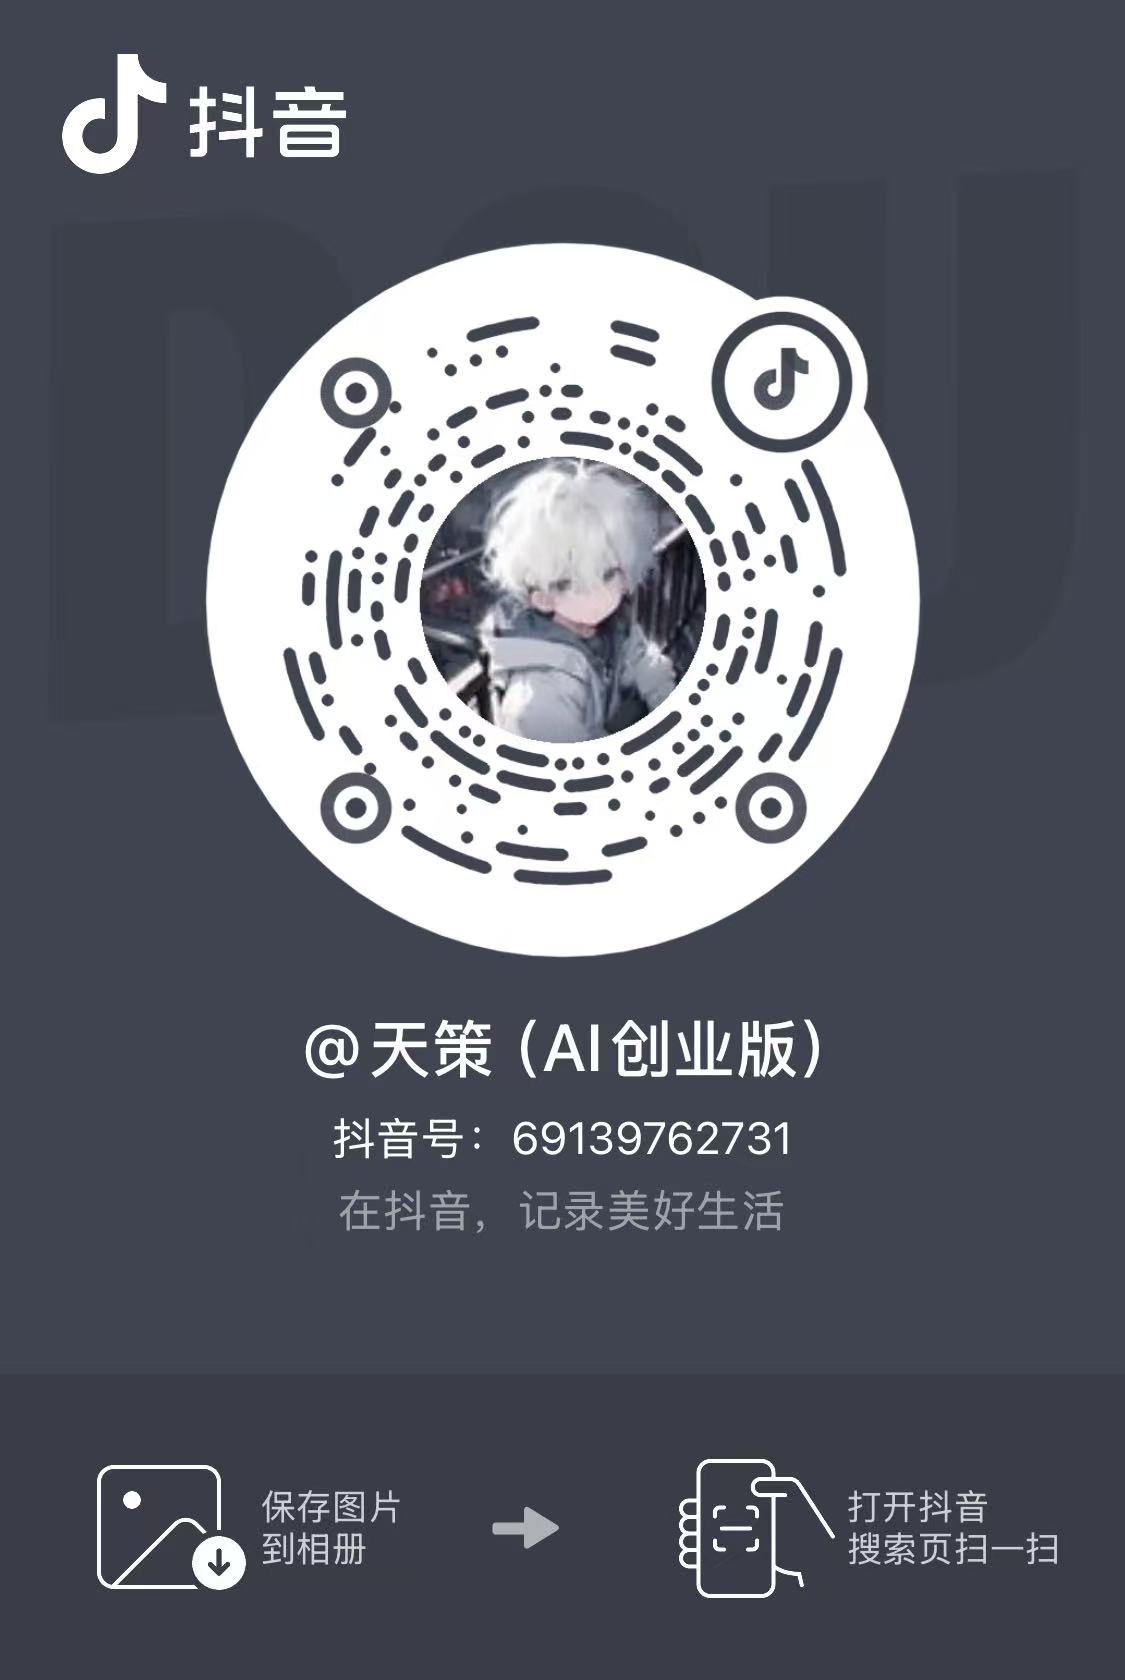
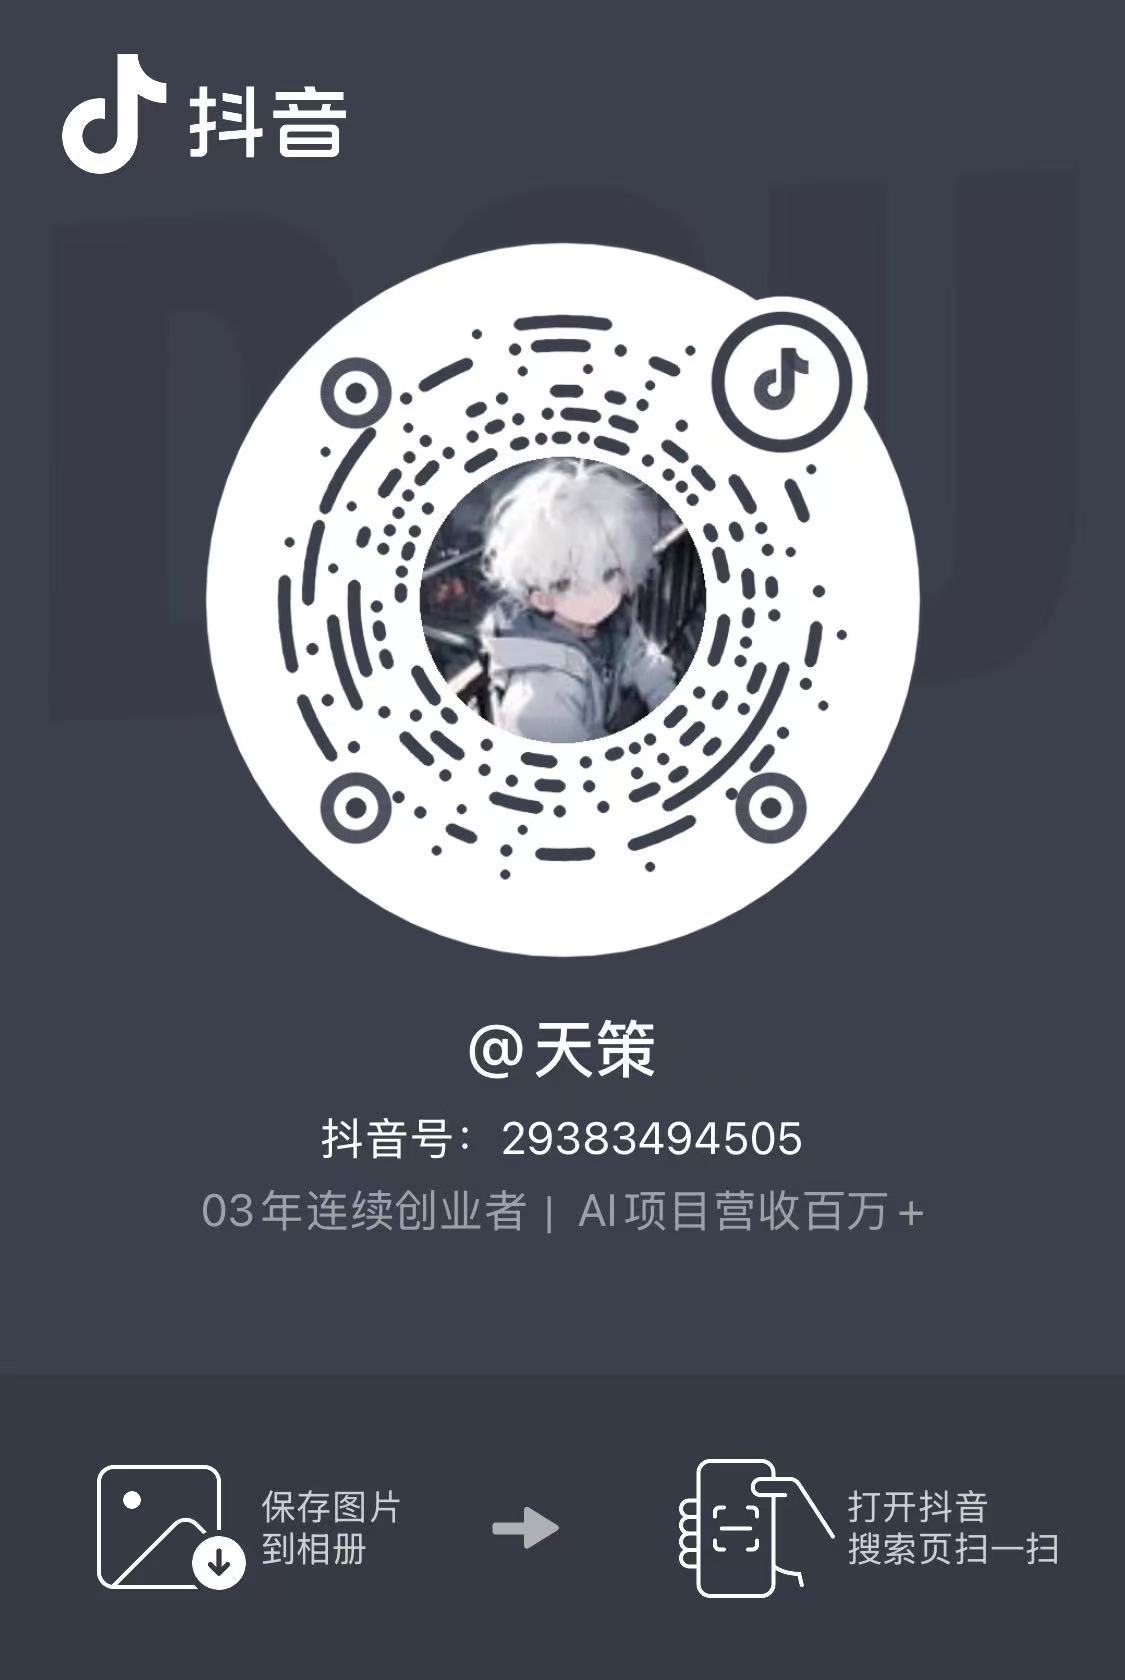
fix: keep checkout open and refresh creator QR

Changed region(s): [[0.2489, 0.1857, 0.7467, 0.5262], [0.1867, 0.5881, 0.8089, 0.7429]]

diff --git a/src/App.tsx b/src/App.tsx
@@ -200,8 +200,17 @@ function App() {
     trackFunnelEvent('report_checkout_clicked', { price: monetization.reportPrice, persona: result.persona.code, index: result.index })
 
     if (reportOrder?.status === 'pending' && reportOrder.payUrl) {
-      window.location.assign(reportOrder.payUrl)
+      window.open(reportOrder.payUrl, '_blank', 'noopener,noreferrer')
       return
+    }
+
+    // 先在用户点击事件里打开窗口，避免异步下单完成后被浏览器拦截弹窗。
+    // 原结果页保持打开并持续查单，支付回调成功后会在这里自动显示报告。
+    const cashierWindow = window.open('', '_blank')
+    if (cashierWindow) {
+      cashierWindow.opener = null
+      cashierWindow.document.title = '正在打开支付宝'
+      cashierWindow.document.body.textContent = '正在生成支付宝订单，请稍候…'
     }
 
     setCheckoutState('creating')
@@ -213,8 +222,14 @@ function App() {
       setReportOrder(order)
       setCheckoutState('pending')
       trackFunnelEvent('report_order_created', { orderNo: order.orderNo, persona: result.persona.code, amount: order.amount })
-      window.location.assign(order.payUrl)
+      if (cashierWindow && !cashierWindow.closed) {
+        cashierWindow.location.replace(order.payUrl)
+      } else {
+        setShareNotice('订单已生成，请点击“打开支付宝付款”')
+        window.setTimeout(() => setShareNotice(''), 4200)
+      }
     } catch (error) {
+      cashierWindow?.close()
       setCheckoutState('error')
       setShareNotice(error instanceof Error ? error.message : '下单失败，稍后再试')
       window.setTimeout(() => setShareNotice(''), 4200)
@@ -343,11 +358,30 @@ function App() {
             <h2>已经被骂了，<br />不如把账算完。</h2>
             <p>免费结果负责告诉你是什么病，完整知行对账书负责告诉你：具体在哪打脸，以及明天先改哪一步。</p>
             <div className="premium-price"><strong>{monetization.reportPrice}</strong><del>{monetization.originalPrice}</del><span>一次购买 · 不自动续费</span></div>
-            <button type="button" className="primary-button premium-button" onClick={handleCheckout} disabled={checkoutState === 'creating'}>
-              <WalletCards size={20} />
-              {checkoutState === 'creating' ? '正在生成收银台…' : checkoutState === 'pending' ? '继续支付并解锁' : `${monetization.reportPrice} 解锁完整报告`}
-            </button>
-            <small><LockKeyhole size={13} />支付成功后自动交付 · 一次购买 · 不自动续费。</small>
+            {checkoutState === 'pending' && reportOrder?.payUrl ? (
+              <a
+                className="primary-button premium-button premium-pay-link"
+                href={reportOrder.payUrl}
+                target="_blank"
+                rel="noreferrer"
+                onClick={() => trackFunnelEvent('report_payment_opened', { orderNo: reportOrder.orderNo })}
+              >
+                <WalletCards size={20} />打开支付宝付款
+              </a>
+            ) : (
+              <button type="button" className="primary-button premium-button" onClick={handleCheckout} disabled={checkoutState === 'creating'}>
+                <WalletCards size={20} />
+                {checkoutState === 'creating' ? '正在生成收银台…' : `支付 ${monetization.reportPrice}，解锁完整报告`}
+              </button>
+            )}
+            {checkoutState === 'pending' && reportOrder ? (
+              <div className="payment-pending-card" role="status">
+                <b>订单已生成，付款后才会生成报告</b>
+                <p>请在打开的支付宝页面完成付款。保留这个结果页，支付成功后通常 3—10 秒自动显示完整报告。</p>
+                <span>订单号：{reportOrder.orderNo}</span>
+              </div>
+            ) : null}
+            <small><LockKeyhole size={13} />先付款，后交付 · 一次购买 · 不自动续费。</small>
           </div>
           <div className="premium-features">
             <article><span>01</span><FileText size={24} /><h3>全部知行对账</h3><p>不只展示前三处，完整拆解每组认知与行为的偏离。</p></article>

diff --git a/src/App.css b/src/App.css
@@ -306,6 +306,11 @@ footer p:last-child { text-align: right; }
 .premium-price span { color: #68655d; font-size: 11px; font-weight: 800; }
 .premium-button { padding-inline: 24px; }
 .premium-button:disabled { cursor: wait; opacity: .72; transform: none; }
+.premium-pay-link { text-decoration: none; }
+.payment-pending-card { width: min(440px, 100%); margin-top: 16px; padding: 15px 16px; border: 2px solid var(--ink); background: #fff4c9; }
+.payment-pending-card b { display: block; font-size: 13px; }
+.payment-pending-card p { margin: 7px 0 8px; color: #5f5b51; font-size: 11px; line-height: 1.65; font-weight: 700; }
+.payment-pending-card span { display: block; overflow-wrap: anywhere; color: #858075; font: 800 9px/1.5 Arial, sans-serif; }
 .premium-copy small { display: flex; align-items: center; gap: 6px; margin-top: 17px; color: #706c63; font-size: 10px; font-weight: 750; }
 .premium-features { padding: 24px; display: grid; grid-template-columns: repeat(2, 1fr); gap: 12px; }
 .premium-features article { position: relative; min-height: 175px; border: 2px solid var(--ink); background: var(--white); padding: 23px; }

diff --git a/src/config/creator.ts b/src/config/creator.ts
@@ -3,9 +3,9 @@ const businessUrl = import.meta.env.VITE_BUSINESS_URL?.trim()
 export const creator = {
   name: '天策',
   bio: '一个还在用真实项目验证自己的 00 后创业者。',
-  douyinName: '@天策（AI创业版）',
-  douyinId: '69139762731',
-  douyinQr: `${import.meta.env.BASE_URL}creator-douyin.jpg`,
+  douyinName: '@天策',
+  douyinId: '29383494505',
+  douyinQr: `${import.meta.env.BASE_URL}creator-douyin.jpg?v=20260816-2`,
   xHandle: '@Leobai825',
   xUrl: 'https://x.com/Leobai825',
   businessUrl: businessUrl || 'https://x.com/Leobai825',

diff --git a/src/lib/analytics.ts b/src/lib/analytics.ts
@@ -4,6 +4,7 @@ type FunnelEventName =
   | 'result_shared'
   | 'report_checkout_clicked'
   | 'report_order_created'
+  | 'report_payment_opened'
   | 'report_unlocked'
   | 'business_clicked'
   | 'creator_clicked'
